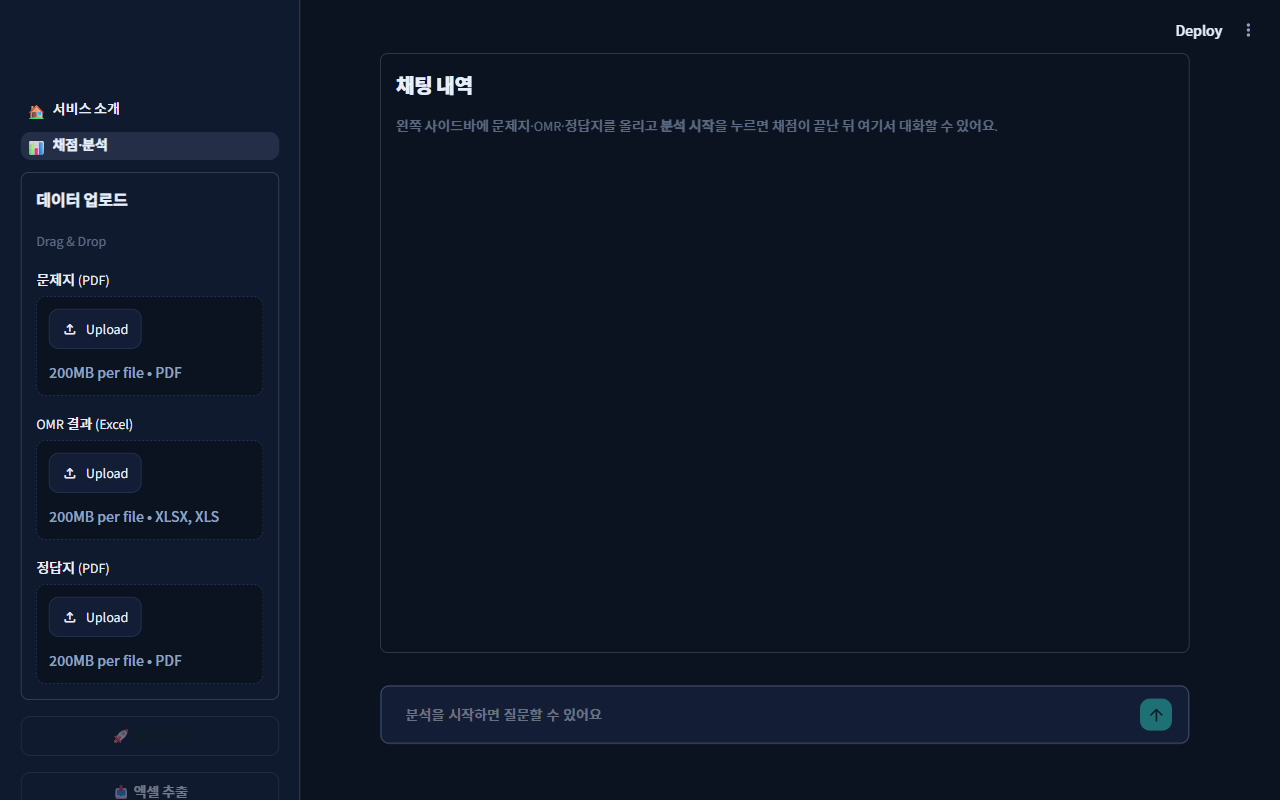
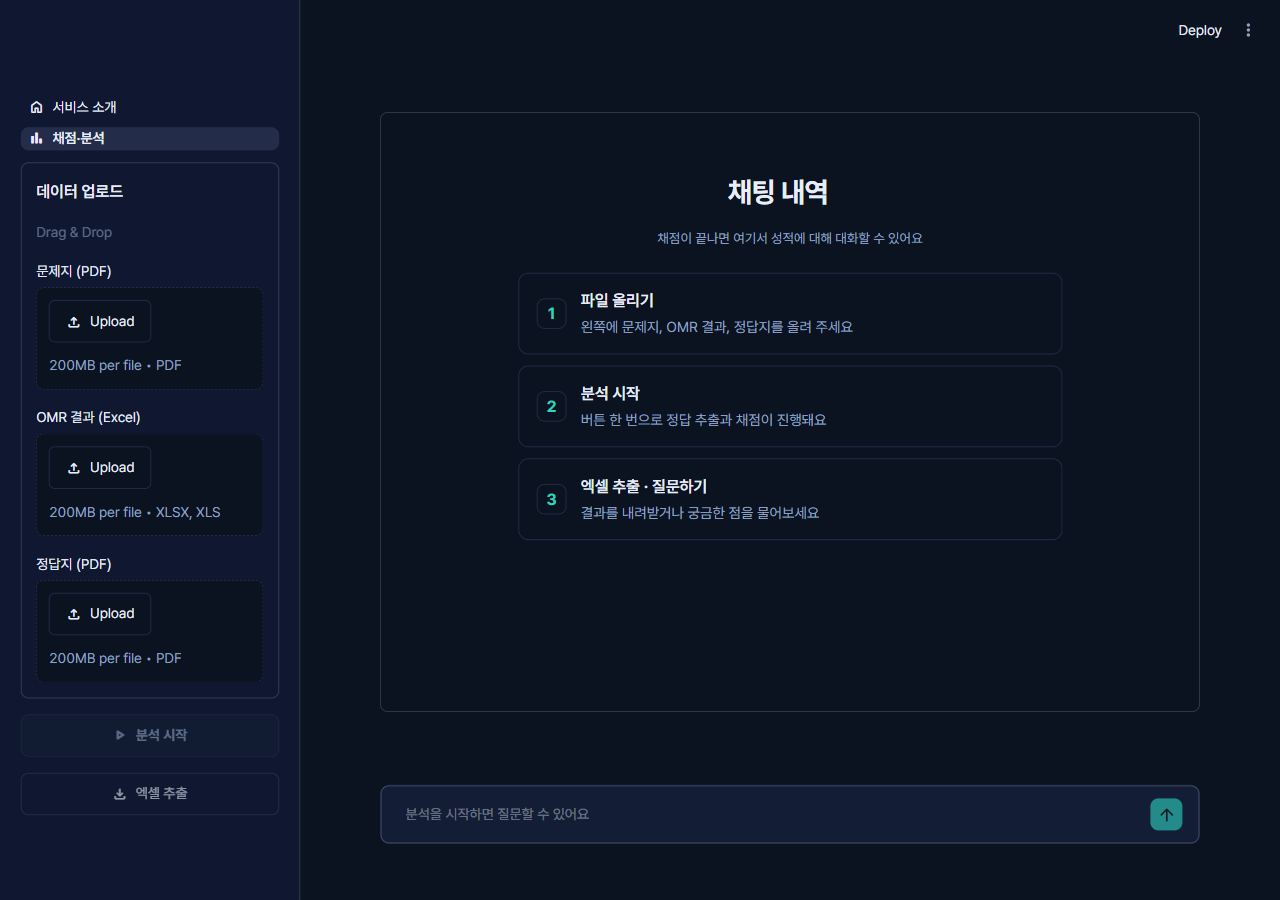
feat(ui): 디자인 다듬기 - 평평하고 단정한 스타일(그라데이션·글로우·알약 모양 제거)
판단 이유:
- 사용자가 B 시안의 색은 유지하되 더 보기 좋게, 그리고 그라데이션과 캡슐 모양 버튼·상자가 "AI로 만든 티"가 난다고 해서 정리했다.
  먼저 high-end-visual-design / redesign-existing-projects 스킬의 기법(메시 배경, 이중 테두리, 알약 버튼, 글로우 등)을 적용해 봤지만
  결과가 오히려 전형적인 AI 생성물처럼 보여, 그 요소들을 모두 걷어내고 아래 원칙으로 다시 정했다.
  - 배경·버튼·제목 모두 단색(그라데이션 없음), 글로우/색 그림자 없음, 로고 링 없음
  - 둥근 모서리는 8~12px의 낮은 값으로 통일(알약형 999px 제거), 알약 배지(eyebrow)는 일반 글자 라벨로
  - 카드는 1px 테두리 한 겹, 아이콘은 이모지 대신 Material 가는 선 아이콘
- 남긴 것: Pretendard 폰트와 자간·줄바꿈 정리, 부드러운 이징의 hover·눌림 전환, 키보드 포커스 표시, 벤토 배치(소개), 단계 안내 빈 화면.
- 확인 중 발견해 고친 것: 파일 칩 아이콘이 배경과 같은 색이라 안 보임, 채팅 입력창 안에 포커스 네모가 이중으로 생김,
  비활성 '분석 시작' 버튼의 글자가 안 보임, 소개 문장과 버튼이 왼쪽으로 쏠림(Streamlit 기본 여백·flex 방향 때문).
- README에 최종 화면 캡처를 넣었다. 브라우저에서 업로드 → 채점 → 엑셀 활성화 → 채팅 동작을 다시 확인했고 테스트 15개가 통과했다.

diff --git a/core/theme.py b/core/theme.py
@@ -1,6 +1,7 @@
-"""화면 스타일: 확정 시안 B(다크 대시보드). 레이아웃은 와이어프레임 그대로 두고 색·모양만 여기서 바꾼다.
+"""화면 스타일: 확정 시안 B(다크). 그라데이션·글로우·알약 모양 없이 평평하고 단정하게 간다.
 
 색 값은 .streamlit/config.toml의 [theme]와 맞춰 두었다(기본 위젯이 어두운 색으로 그려지도록).
+외부 자원은 폰트(Pretendard, jsDelivr CDN) 하나뿐이며, 로드되지 않으면 시스템 한글 글꼴로 대체된다.
 """
 import streamlit as st
 
@@ -16,66 +17,126 @@ _HIDE_SIDEBAR = """
 """
 _CSS = """
 <style>
-:root { --bg:#0B1220; --side:#101A2E; --card:#131E36; --line:#243455; --text:#E7EEF9; --muted:#8FA2C2;
-        --accent:#2DD4BF; --accent-text:#06201C; --user:#1A2A4A; --r:10px; }
-.stApp { background: var(--bg); font-family: 'Pretendard','Noto Sans KR','Malgun Gothic',system-ui,sans-serif; }
+@import url("https://cdn.jsdelivr.net/gh/orioncactus/pretendard@v1.3.9/dist/web/variable/pretendardvariable-dynamic-subset.min.css");
+:root {
+  --bg:#0B1220; --side:#0F1830; --card:#131E36; --line:#22304F; --text:#E7EEF9; --muted:#8FA2C2;
+  --accent:#2DD4BF; --accent-text:#06201C; --user:#1A2A4A; --r:10px;
+  --ease:cubic-bezier(0.32,0.72,0,1);
+  --font:'Pretendard Variable',Pretendard,'Noto Sans KR','Malgun Gothic',system-ui,sans-serif;
+}
+
+/* ---------- 바탕·타이포 ---------- */
+html, body, .stApp, .stApp p, .stApp li, .stApp label, .stApp h1, .stApp h2, .stApp h3, .stApp h4, .stApp h5,
+.stApp button, .stApp textarea, .stApp input, .stApp div[data-testid="stMarkdownContainer"] { font-family: var(--font); }
+.stApp { background: var(--bg); font-variant-numeric: tabular-nums; }
 .stApp, .stApp p, .stApp li, .stApp label, .stApp span, .stApp div[data-testid="stMarkdownContainer"] { color: var(--text); }
-.stApp h1, .stApp h2, .stApp h3, .stApp h4, .stApp h5 { color: var(--text); font-family: inherit; font-weight: 700; letter-spacing: -.01em; }
+.stApp h1, .stApp h2, .stApp h3, .stApp h4, .stApp h5 { color: var(--text); font-weight: 700; letter-spacing: -.02em; text-wrap: balance; }
+.stApp p { text-wrap: pretty; line-height: 1.65; }
 [data-testid="stCaptionContainer"], [data-testid="stCaptionContainer"] * { color: var(--muted) !important; }
 [data-testid="stHeader"] { background: transparent; }
 [data-testid="stHeader"] * { color: var(--muted); }
 [data-testid="stSidebar"] { background: var(--side); border-right: 1px solid var(--line); }
 [data-testid="stSidebar"] * { color: var(--text); }
 
-/* 카드(테두리 컨테이너: 업로드 박스, 채팅 내역) */
-[data-testid="stVerticalBlockBorderWrapper"] { background: var(--card); border: 1px solid var(--line) !important; border-radius: var(--r); box-shadow: none; }
-[data-testid="stSidebar"] [data-testid="stVerticalBlockBorderWrapper"] { box-shadow: none; }
+/* ---------- 카드 ---------- */
+[data-testid="stVerticalBlockBorderWrapper"] { background: var(--card); border: 1px solid var(--line) !important; border-radius: 12px; }
 
-/* 버튼 */
-[data-testid="stBaseButton-primary"] { background: var(--accent); border: 1px solid var(--accent); border-radius: var(--r); }
+/* ---------- 버튼 ---------- */
+[data-testid="stBaseButton-primary"], [data-testid="stBaseButton-secondary"] {
+  border-radius: 8px; padding: .55rem 1rem;
+  transition: background .25s var(--ease), border-color .25s var(--ease), transform .25s var(--ease);
+}
+[data-testid="stBaseButton-primary"] { background: var(--accent); border: 1px solid var(--accent); }
 [data-testid="stBaseButton-primary"] * { color: var(--accent-text) !important; font-weight: 700; }
-[data-testid="stBaseButton-primary"]:hover { filter: brightness(1.08); }
-[data-testid="stBaseButton-secondary"], [data-testid="stBaseButton-secondaryFormSubmit"] { background: var(--card); border: 1px solid var(--line); border-radius: var(--r); }
+[data-testid="stBaseButton-primary"]:hover:not(:disabled) { background: #5EEAD4; border-color: #5EEAD4; }
+[data-testid="stBaseButton-secondary"] { background: transparent; border: 1px solid var(--line); }
 [data-testid="stBaseButton-secondary"] * { color: var(--text) !important; }
-button:disabled { opacity: .45; }
+[data-testid="stBaseButton-secondary"]:hover:not(:disabled) { border-color: var(--accent); }
+[data-testid="stBaseButton-primary"]:active:not(:disabled), [data-testid="stBaseButton-secondary"]:active:not(:disabled) { transform: scale(.98); }
+[data-testid="stBaseButton-primary"]:disabled { background: var(--card); border-color: var(--line); }   /* 비활성: 밝은 글자가 보이게 */
+[data-testid="stBaseButton-primary"]:disabled * { color: var(--muted) !important; }
+button:disabled { opacity: .6; }
+:focus-visible { outline: 2px solid var(--accent) !important; outline-offset: 2px; }
+[data-testid="stChatInput"] textarea:focus-visible { outline: none !important; }   /* 입력창 테두리가 이미 포커스를 보여 준다 */
 
-/* 파일 업로드 */
-[data-testid="stFileUploaderDropzone"] { background: var(--bg); border: 1.5px dashed var(--line); border-radius: var(--r); }
+/* ---------- 파일 업로드 ---------- */
+[data-testid="stFileUploaderDropzone"] { background: var(--bg); border: 1px dashed var(--line); border-radius: 8px; transition: border-color .25s var(--ease); }
+[data-testid="stFileUploaderDropzone"]:hover { border-color: var(--accent); }
 [data-testid="stFileUploaderDropzone"] * { color: var(--muted) !important; }
-[data-testid="stFileUploaderDropzone"] button { background: var(--card); border: 1px solid var(--line); }
+[data-testid="stFileUploaderDropzone"] button { background: transparent; border: 1px solid var(--line); border-radius: 6px; }
 [data-testid="stFileUploaderDropzone"] button * { color: var(--text) !important; }
-[data-testid="stFileUploaderFile"] { background: var(--card); border-radius: var(--r); }
+[data-testid="stFileChip"] { background: var(--bg) !important; border: 1px solid var(--line); border-radius: 6px; }
+[data-testid="stFileChip"] * { color: var(--text) !important; }
+[data-testid="stFileChip"] > div:first-child { background: #1B2A4A !important; border-radius: 6px; }   /* 파일 아이콘 칸(기본값이 글자색이라 아이콘이 안 보였음) */
+[data-testid="stFileChip"] > div:first-child * { color: var(--accent) !important; }
 
-/* 채팅 */
-[data-testid="stChatMessage"] { background: transparent; border-radius: var(--r); }
+/* ---------- 채팅 ---------- */
+[data-testid="stChatMessage"] { background: transparent; border-radius: 10px; padding: .8rem 1rem; }
 [data-testid="stChatMessage"]:has([data-testid="stChatMessageAvatarUser"]) { background: var(--user); }
-[data-testid="stChatInput"] { background: var(--card); border: 1px solid var(--line) !important; border-radius: var(--r); box-shadow: none; }
+[data-testid="stChatMessageAvatarUser"] { background: #2B3C61 !important; border-radius: 8px; }
+[data-testid="stChatMessageAvatarAssistant"] { background: var(--accent) !important; border-radius: 8px; }
+[data-testid="stChatMessageAvatarUser"] * { color: #fff !important; }
+[data-testid="stChatMessageAvatarAssistant"] * { color: var(--accent-text) !important; }
+[data-testid="stChatInput"] { background: var(--card); border: 1px solid var(--line) !important; border-radius: 10px; transition: border-color .25s var(--ease); }
 [data-testid="stChatInput"]:focus-within { border-color: var(--accent) !important; }
+[data-testid="stChatInput"] div { background: transparent !important; }
 [data-testid="stChatInput"] textarea { color: var(--text); background: transparent; }
 [data-testid="stChatInput"] textarea::placeholder { color: var(--muted); }
-[data-testid="stChatInput"] button { background: var(--accent); }
+[data-testid="stChatInputSubmitButton"] { background: var(--accent) !important; border-radius: 8px; }
 [data-testid="stChatInput"] button, [data-testid="stChatInput"] button * { color: var(--accent-text) !important; }
 [data-testid="stBottom"], [data-testid="stBottom"] > div { background: transparent; }
-[data-testid="stAlert"] { border-radius: var(--r); }
+[data-testid="stAlert"] { border-radius: 10px; }
 .stApp hr { border-color: var(--line); }
+*::-webkit-scrollbar { width: 8px; height: 8px; }
+*::-webkit-scrollbar-thumb { background: rgba(255,255,255,.12); border-radius: 8px; }
 
-/* Streamlit이 내부 요소에 따로 주는 밝은 배경을 시안 색으로 덮어쓴다 */
-[data-testid="stChatInput"] div { background: transparent !important; }
-[data-testid="stChatInputSubmitButton"] { background: var(--accent) !important; border-radius: var(--r); }
-[data-testid="stFileChip"] { background: var(--bg) !important; border: 1px solid var(--line); border-radius: var(--r); }
-[data-testid="stFileChip"] * { color: var(--text) !important; }
-[data-testid="stButtonGroup"] button { background: var(--card) !important; border: 1px solid var(--line); border-radius: var(--r); }
-[data-testid="stButtonGroup"] button * { color: var(--text) !important; }
-[data-testid="stButtonGroup"] button[aria-checked="true"] { background: var(--accent) !important; border-color: var(--accent); }
-[data-testid="stButtonGroup"] button[aria-checked="true"] * { color: var(--accent-text) !important; font-weight: 700; }
+/* ---------- 페이지 버튼 ---------- */
+[data-testid="stPageLink-NavLink"] { border-radius: 8px; transition: background .25s var(--ease); }
+[data-testid="stPageLink-NavLink"]:hover { background: rgba(255,255,255,.05); }
+[data-testid="stPageLink-NavLink"][aria-current="page"] { background: rgba(45,212,191,.12); }
+[data-testid="stPageLink-NavLink"][aria-current="page"] * { color: var(--accent) !important; }
 
-/* 페이지 버튼 */
-[data-testid="stPageLink-NavLink"] { border-radius: var(--r); }
-[data-testid="stPageLink-NavLink"][aria-current="page"] { background: var(--user); }
+/* ---------- 랜딩 ---------- */
+[data-testid="stImage"] img { max-width: 168px; margin: 0 auto; display: block; border-radius: 50%; }
+.eyebrow { text-align: center; margin: 1.6rem 0 .7rem; font-size: .8rem; font-weight: 600; letter-spacing: .08em; color: var(--accent); }
+.hero-title { text-align: center; font-size: clamp(2.1rem, 5vw, 3.2rem); line-height: 1.15; margin: 0 0 .9rem; }
+.hero-title span { color: var(--accent); }
+.hero-sub { text-align: center !important; color: var(--muted) !important; max-width: 34rem; margin: 0 auto 1.6rem !important; font-size: 1.04rem; }
+.st-key-cta { display: flex; flex-direction: column; align-items: center !important; }
+.st-key-cta a { border-radius: 8px; padding: .7rem 1.4rem; background: var(--accent); transition: background .25s var(--ease), transform .25s var(--ease); }
+.st-key-cta a:hover { background: #5EEAD4; }
+.st-key-cta a:active { transform: scale(.98); }
+.st-key-cta a * { color: var(--accent-text) !important; font-weight: 700; }
 
-/* 랜딩 */
-[data-testid="stImage"] img { max-width: 170px; margin: 0 auto; display: block; }
-.hero-gap { height: 2.6rem; }
+.bento { display: grid; grid-template-columns: 1.35fr 1fr; gap: 16px; margin: 3.2rem 0 1.5rem; }
+.bz { animation: rise .7s var(--ease) both; }
+.bz.big { grid-row: span 2; animation-delay: .05s; }
+.bz:nth-child(2) { animation-delay: .12s; }
+.bz:nth-child(3) { animation-delay: .2s; }
+.core { height: 100%; padding: 1.5rem 1.6rem; border-radius: 12px; box-sizing: border-box; background: var(--card); border: 1px solid var(--line); transition: border-color .25s var(--ease); }
+.core:hover { border-color: rgba(45,212,191,.45); }
+.core .ico { width: 38px; height: 38px; border-radius: 8px; display: grid; place-items: center; margin-bottom: 1rem; color: var(--accent); border: 1px solid var(--line); background: var(--bg); }
+.core .ico svg { width: 21px; height: 21px; }
+.core h4 { margin: 0 0 .4rem; font-size: 1.12rem; }
+.core p { margin: 0; color: var(--muted) !important; font-size: .95rem; }
+.demo { margin-top: 1.4rem; display: grid; gap: .5rem; }
+.demo div { padding: .65rem .95rem; border-radius: 8px; font-size: .92rem; line-height: 1.5; max-width: 90%; }
+.demo .q { justify-self: end; background: var(--user); }
+.demo .a { justify-self: start; background: var(--bg); border: 1px solid var(--line); }
+.foot { text-align: center; color: var(--muted); font-size: .8rem; padding: 2rem 0 1rem; }
+
+/* ---------- 2페이지 빈 화면(단계 안내) ---------- */
+.steps { display: grid; gap: .7rem; max-width: 34rem; margin: 1.4rem auto 0; }
+.step { display: flex; gap: .9rem; align-items: center; padding: .9rem 1.1rem; border-radius: 10px; background: var(--bg); border: 1px solid var(--line); animation: rise .7s var(--ease) both; }
+.step:nth-child(2) { animation-delay: .08s; } .step:nth-child(3) { animation-delay: .16s; }
+.step i { flex: none; width: 30px; height: 30px; border-radius: 8px; display: grid; place-items: center; font-style: normal; font-weight: 700; color: var(--accent); border: 1px solid var(--line); }
+.step b { display: block; } .step span { color: var(--muted) !important; font-size: .9rem; }
+.empty-title { text-align: center; margin-top: 2.2rem; }
+.empty-title small { color: var(--muted); }
+
+@keyframes rise { from { opacity: 0; transform: translateY(12px); } to { opacity: 1; transform: none; } }
+@media (max-width: 760px) { .bento { grid-template-columns: 1fr; } .bz.big { grid-row: auto; } .demo div { max-width: 100%; } }
+@media (prefers-reduced-motion: reduce) { .bz, .step { animation: none; } * { transition: none !important; } }
 </style>
 """
 

diff --git a/app.py b/app.py
@@ -1,8 +1,9 @@
 """페이지 1: 서비스 소개(랜딩).
 
 와이어프레임(README.pdf 6쪽): 좌상단 '페이지 버튼' / 화면 중앙 '가천대 로고' / 그 아래 서비스명.
-첫 화면은 와이어프레임 그대로 두고, 서비스 소개는 아래로 스크롤하면 나온다.
+첫 화면은 와이어프레임 그대로 두고, 서비스 소개(벤토 카드)는 아래로 스크롤하면 나온다.
 """
+import logging
 from pathlib import Path
 
 import streamlit as st
@@ -12,23 +13,55 @@ from core import theme
 st.set_page_config(page_title="영어 학원 평가 도우미", page_icon="📝", layout="wide", initial_sidebar_state="collapsed")
 theme.apply(hide_sidebar=True)
 
+_ICO = {  # 가는 선(1.4) 아이콘
+    "grade": '<svg viewBox="0 0 24 24" fill="none" stroke="currentColor" stroke-width="1.4" stroke-linecap="round" stroke-linejoin="round"><rect x="4.5" y="3" width="15" height="18" rx="3"/><path d="M8.5 8.5h7M8.5 12.5h4M9 17l1.8 1.8L15 15"/></svg>',
+    "excel": '<svg viewBox="0 0 24 24" fill="none" stroke="currentColor" stroke-width="1.4" stroke-linecap="round" stroke-linejoin="round"><path d="M12 4v10m0 0-4-4m4 4 4-4M5 19h14"/></svg>',
+    "chat": '<svg viewBox="0 0 24 24" fill="none" stroke="currentColor" stroke-width="1.4" stroke-linecap="round" stroke-linejoin="round"><path d="M5.5 5.5h13a1.5 1.5 0 0 1 1.5 1.5v8a1.5 1.5 0 0 1-1.5 1.5H12l-4.2 3v-3H5.5A1.5 1.5 0 0 1 4 15V7a1.5 1.5 0 0 1 1.5-1.5Z"/></svg>',
+}
+
 # ---- 페이지 버튼 (좌상단) ----
 nav = st.columns([1.2, 1.2, 5.6])
-nav[0].page_link("app.py", label="서비스 소개", icon="🏠")
-nav[1].page_link("pages/analysis.py", label="채점·분석", icon="📊")
+for col, (path, label, icon) in zip(nav, [("app.py", "서비스 소개", ":material/home:"), ("pages/analysis.py", "채점·분석", ":material/bar_chart:")]):
+    try:
+        col.page_link(path, label=label, icon=icon)
+    except Exception as e:  # 배포 오류가 가려지지 않게 로그를 남긴다
+        logging.getLogger(__name__).warning("page_link 실패(%s): %r", path, e)
+        col.caption(f"{label} (준비 중)")
 
 # ---- 로고(중앙) + 서비스명 ----
 st.write("")
 _, mid, _ = st.columns([2, 1, 2])
 mid.image(str(Path(__file__).parent / "assets" / "gachon_logo.png"), width="stretch")
-st.markdown("<h1 style='text-align:center'>영어 학원 평가 도우미</h1>", unsafe_allow_html=True)
-st.markdown("<p style='text-align:center;opacity:.7'>OMR 자동 채점 · 성적 분석 · 질문 챗봇</p>", unsafe_allow_html=True)
+st.markdown(
+    '<div class="eyebrow">OMR 자동 채점 · AI 성적 분석</div>'
+    '<h1 class="hero-title">영어 학원 <span>평가 도우미</span></h1>'
+    '<p class="hero-sub">문제지·OMR·정답지를 올리면 채점부터 엑셀 정리, 성적 질문까지 한 번에 끝냅니다.</p>',
+    unsafe_allow_html=True,
+)
+with st.container(key="cta"):
+    st.page_link("pages/analysis.py", label="채점 시작하기", icon=":material/arrow_outward:")
 
-# ---- 서비스 소개 (스크롤) ----
-st.write("")
-st.divider()
-c = st.columns(3)
-c[0].markdown("#### ✅ 자동 채점\n문제지·OMR·정답 PDF를 올리면 정답과 배점을 PDF에서 읽어 채점합니다.")
-c[1].markdown("#### 📥 엑셀 추출\n전체 성적 개요와 학생별 점수·문항별 정오답을 엑셀로 내려받습니다.")
-c[2].markdown("#### 💬 성적 챗봇\n평균, 최저 학생, 많이 틀린 문항을 묻고 유사 문제도 만들어 달라고 할 수 있습니다.")
-st.caption("가천대학교 생성형 AI 활용 부트캠프 최종평가 프로젝트")
+# ---- 서비스 소개 (스크롤): 비대칭 벤토 ----
+st.markdown(
+    '<div class="bento">'
+    '<div class="bz big"><div class="core">'
+    f'<div class="ico">{_ICO["chat"]}</div><h4>성적 질문 챗봇</h4>'
+    '<p>데이터 분석을 몰라도 괜찮아요. 궁금한 걸 그대로 물어보면 채점 결과를 바탕으로 답하고, 많이 틀린 유형의 문제도 새로 만들어 줍니다.</p>'
+    '<div class="demo">'
+    '<div class="q">가장 성적이 저조한 학생은 누구야?</div>'
+    '<div class="a">가장 성적이 저조한 학생은 10번째 909학생으로, 점수는 31점입니다.</div>'
+    '<div class="q">가장 많이 틀린 문제와 비슷한 문제 만들어줘</div>'
+    '<div class="a">21번(오답 9명)과 같은 유형으로 새 문제를 만들었어요.</div>'
+    '</div></div></div>'
+    '<div class="bz"><div class="core">'
+    f'<div class="ico">{_ICO["grade"]}</div><h4>정답지에서 바로 채점</h4>'
+    '<p>정답과 배점을 정답 PDF에서 직접 읽어 채점해요. 시험이 바뀌어도 파일만 올리면 됩니다.</p>'
+    '</div></div>'
+    '<div class="bz"><div class="core">'
+    f'<div class="ico">{_ICO["excel"]}</div><h4>엑셀로 정리</h4>'
+    '<p>평균·중앙값·표준편차, 가장 많이 틀린 문항, 학생별 점수와 문항별 정오답을 한 파일로 내려받아요.</p>'
+    '</div></div>'
+    '</div>'
+    '<div class="foot">가천대학교 생성형 AI 활용 부트캠프 최종평가 프로젝트</div>',
+    unsafe_allow_html=True,
+)

diff --git a/pages/analysis.py b/pages/analysis.py
@@ -31,16 +31,16 @@ done = "result" in ss
 
 # ---------------------------------------------------------------- 사이드바
 with st.sidebar:
-    st.page_link("app.py", label="서비스 소개", icon="🏠")
-    st.page_link("pages/analysis.py", label="채점·분석", icon="📊")
+    st.page_link("app.py", label="서비스 소개", icon=":material/home:")
+    st.page_link("pages/analysis.py", label="채점·분석", icon=":material/bar_chart:")
     with st.container(border=True):
         st.markdown("**데이터 업로드**")
         st.caption("Drag & Drop")
         prob_f = st.file_uploader("문제지 (PDF)", type="pdf", key="prob")
         omr_f = st.file_uploader("OMR 결과 (Excel)", type=["xlsx", "xls"], key="omr")
         ans_f = st.file_uploader("정답지 (PDF)", type="pdf", key="ans")
-    start = st.button("🚀 분석 시작", type="primary", width="stretch", disabled=not (prob_f and omr_f and ans_f))
-    st.download_button("📥 엑셀 추출", data=ss.get("excel", b""), file_name="채점_결과.xlsx",
+    start = st.button("분석 시작", icon=":material/play_arrow:", type="primary", width="stretch", disabled=not (prob_f and omr_f and ans_f))
+    st.download_button("엑셀 추출", icon=":material/download:", data=ss.get("excel", b""), file_name="채점_결과.xlsx",
                        mime="application/vnd.openxmlformats-officedocument.spreadsheetml.sheet",
                        width="stretch", disabled=not done)
 
@@ -83,8 +83,14 @@ if done and all((prob_f, omr_f, ans_f)) and tuple((f.name, f.size) for f in (pro
 chat_box = st.container(height=600, border=True)  # 채팅 내역
 with chat_box:
     if not done:
-        st.markdown("##### 채팅 내역")
-        st.caption("왼쪽 사이드바에 문제지·OMR·정답지를 올리고 **분석 시작**을 누르면 채점이 끝난 뒤 여기서 대화할 수 있어요.")
+        st.markdown(
+            '<div class="empty-title"><h3>채팅 내역</h3><small>채점이 끝나면 여기서 성적에 대해 대화할 수 있어요</small></div>'
+            '<div class="steps">'
+            '<div class="step"><i>1</i><div><b>파일 올리기</b><span>왼쪽에 문제지, OMR 결과, 정답지를 올려 주세요</span></div></div>'
+            '<div class="step"><i>2</i><div><b>분석 시작</b><span>버튼 한 번으로 정답 추출과 채점이 진행돼요</span></div></div>'
+            '<div class="step"><i>3</i><div><b>엑셀 추출 · 질문하기</b><span>결과를 내려받거나 궁금한 점을 물어보세요</span></div></div>'
+            '</div>',
+            unsafe_allow_html=True)
     else:
         s = summary(ss.result)
         with st.chat_message("assistant"):  # 안내 메시지(대화 이력에는 넣지 않는다)

diff --git a/README.md b/README.md
@@ -10,6 +10,12 @@
 영어 학원 원장님이 **문제지 PDF · OMR 결과(엑셀) · 정답 PDF**를 올리면 자동으로 채점하고, 결과를 **엑셀로 내려받고**,
 채점 결과에 대해 **챗봇으로 질문**(통계, 학생 점수, 가장 많이 틀린 문항, 유사 문제 생성)할 수 있는 웹 서비스입니다.
 
+## 화면
+
+| 1페이지 (소개) | 2페이지 (채점·분석) |
+|---|---|
+| ![소개 페이지](docs/screens/landing.png) | ![채점·분석 페이지](docs/screens/analysis.png) |
+
 ## 요구사항 대응
 
 | # | 요구사항 | 구현 |
